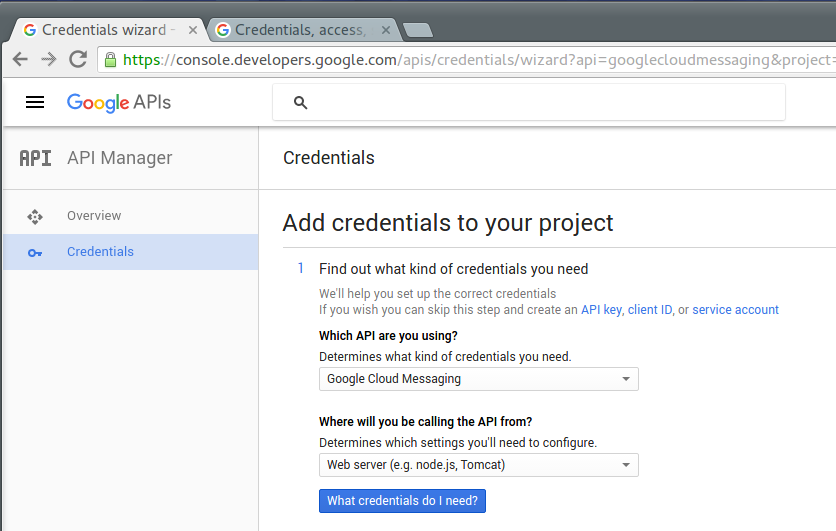
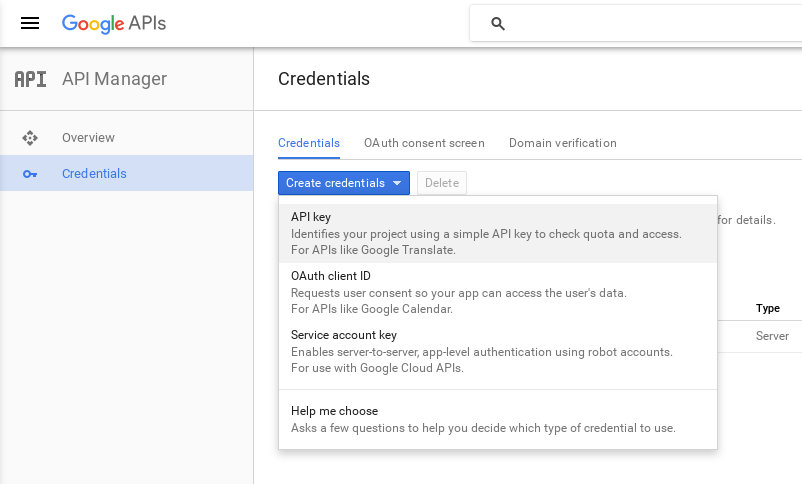
#720384: Process review comments.

diff --git a/README.md b/README.md
@@ -215,17 +215,17 @@ To do so follow these steps to get registered for Google cloud messaging and ent
 ### Step 1 - Login to developers console
 
 Open up the Google [developers console] (https://console.developers.google.com) and login with your Google id.
-<img src="assets/images/gcm-step1.PNG"/>
+<img src="assets/images/gcm-step1.png"/>
 
 ### Step 2 - Create project
 
-Click new project and fill in the project name and project ID for your application. Then click create. Once created you will see a project number at the top of the screen next to the project ID. Take note of this ID because you will need it later on for our sender ID.
+From the "Go to project" menu, click "Create a project" and fill in the project name and project ID for your application. Then click Create.
 
 <img src="assets/images/gcm-step2.png"/>
 
 ### Step 3 - Enable Google Cloud Messaging
 
-Once created, click the link to the Google Cloud Messaging API and click the Enable button.
+Once created, click the link to the Google Cloud Messaging API (section `Mobile APIs`) and click the Enable button.
 <img src="assets/images/gcm-step3.png"/>
 
 ### Step 4 - Adding credentials
@@ -233,21 +233,24 @@ Once created, click the link to the Google Cloud Messaging API and click the Ena
 Click on the menu option credentials, located on the left hand side under the API Manager section.
 <img src="assets/images/gcm-step4.png"/>
 
-For the question **Which API are you using?**, select "Google Cloud Messaging".
-The next question, **Where will you be calling the API from?**, answer "Web server".
+Click on the `Create credentials` button. You'll want to choose an API key of type `Server`.
 
 <img src="assets/images/gcm-step4b.png"/>
 
 ### Step 5 - Create API key
 
 Choose a name for your key and, optionally, restrict the IP addresses that can connect to the API.
-Then, press the "Create API key" button.
 <img src="assets/images/gcm-step5.png"/>
+
+Then, press the "Create API key" button.
+<img src="assets/images/gcm-step5b.png"/>
+
 
 ### Step 6 - Setup Mendix app
 
 Open up your application in Mendix and login as an Admin, so that you can see the menu option "Google admin".
-Enter the **project number** into the sender ID field and the API key into the API field. You can find it in your Google project's Settings pane.
+Enter the **project number** into the sender ID field and the API key into the API field. You can find it in your Google project's Project Information pane ( ⁝ utilities menu).
+
 <img src="assets/images/gcm-step6.PNG"/>
 <img src="assets/images/gcm-step6b.png"/>
 
